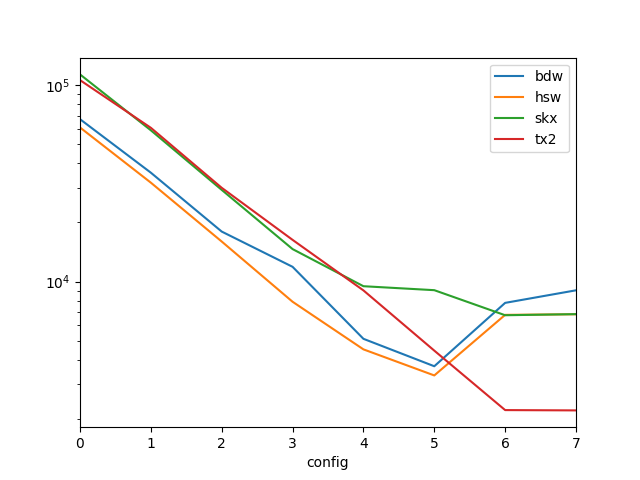
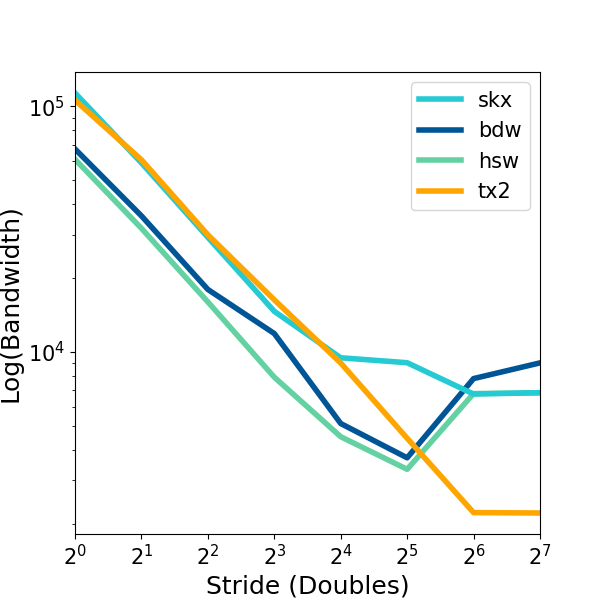
add more python scripts

diff --git a/src/python/prefetch_plot.py b/src/python/prefetch_plot.py
@@ -1,0 +1,185 @@
+import numpy as np
+import pandas as pd
+import matplotlib.pyplot as plt
+import matplotlib.ticker as ticker
+from pandas.compat import StringIO
+import sys
+import re
+import os
+import ntpath
+
+def file_to_df(filename):
+    with open(filename, 'r') as file:
+        contents = file.read()
+
+    # Read run configurations
+    start = contents.find("[", contents.find("Run Configurations"))
+    end = contents.find("config")
+    config = pd.DataFrame(eval(contents[start:end]))
+    #config['config'] = [i for i in range(config.shape[0])]
+
+    # Read data
+    data = pd.read_csv(StringIO(contents[end:]), delim_whitespace=True)
+
+    # Join tables and return 
+    return data.join(config, on='config', how='inner')
+
+def _is_nr(str):
+    return str.find("NR") != -1
+is_nr = np.vectorize(_is_nr)
+
+def _gap(arr):
+    if len(arr) < 2:
+        raise Exception('length 0 or 1 pattern')
+    return arr[1]
+gap = np.vectorize(_gap)
+
+def _pct(name):
+    return int(re.findall('\d+', name)[0])
+pct = np.vectorize(_pct)
+
+colors = {'on':'#26CAD3', 'off':'black'}
+
+def prefetch(name):
+    n = ntpath.basename(os.path.splitext(name)[0])
+    n = n[n.find("_")+1:n.rfind("_")]
+    if n.find("on") != -1:
+        return "on"
+    elif n.find("off") != -1:
+        return "off"
+    raise Exception("could not determine prefetch")
+
+def get_arch(name):
+    n = ntpath.basename(os.path.splitext(name)[0])
+    n = n[n.rfind("_")+1:]
+    return n
+
+
+if __name__ == "__main__":
+    if len(sys.argv) < 2:
+        print("Usage: python3 {} input.dat".format(sys.argv[0]))
+        exit(1)
+
+    #Read files
+    dfs = []
+    for f in sys.argv[1:]:
+        tmp = file_to_df(f)
+        tmp['arch'] = get_arch(f)
+        tmp['gap'] = gap(tmp['name'])
+        tmp['prefetch'] = prefetch(f)
+        tmp['norm_local'] = tmp['bw(MB/s)'] / max(tmp['bw(MB/s)'])
+        dfs.append(tmp)
+    df = pd.concat(dfs)
+
+    df['norm_global'] = df['bw(MB/s)'] / max(df['bw(MB/s)'])
+    df['bw(GB/s)'] = df['bw(MB/s)'] / 1000
+
+    all_arch = ""
+    for key, _ in df.groupby(['arch']):
+        all_arch = all_arch + key
+
+
+    SMALL_SIZE = 15
+    MEDIUM_SIZE = 18
+    BIGGER_SIZE = 20
+
+    plt.rc('font', size=SMALL_SIZE)          # controls default text sizes
+    plt.rc('axes', titlesize=SMALL_SIZE)     # fontsize of the axes title
+    plt.rc('axes', labelsize=MEDIUM_SIZE)    # fontsize of the x and y labels
+    plt.rc('xtick', labelsize=SMALL_SIZE)    # fontsize of the tick labels
+    plt.rc('ytick', labelsize=SMALL_SIZE)    # fontsize of the tick labels
+    plt.rc('legend', fontsize=SMALL_SIZE)    # legend fontsize
+    plt.rc('figure', titlesize=BIGGER_SIZE)  # fontsize of the figure title
+
+    #Plot against global max
+    print("Making plot 1")
+    fix, ax = plt.subplots()
+    #ax = plt.subplot(1, 2, 1) #plot 1
+
+    for key, grp in df.groupby(['prefetch']):
+        ax = grp.plot(ax=ax, kind='line', x='config', y='bw(GB/s)', label=key, color=colors[key])
+        print(key)
+
+    ax.set_xlabel("Stride (Doubles)")
+    ax.set_ylabel("Bandwidth (GB/s)")
+
+    ax.get_legend().remove()
+
+    ax2 = ax.twinx()
+    for key, grp in df.groupby(['prefetch']):
+        ax2 = grp.plot(ax=ax2, kind='line', x='config', y='norm_global', label=key, color=colors[key], linewidth=4)
+        print(key)
+
+
+    MODE="normal"
+    print(f"Mode is {MODE}")
+
+
+    ax2.set_ylabel("Normalized bandwidth")
+    ax2.get_legend().remove()
+
+    if MODE == "opt":
+        ax2.axhline(y=1, linestyle=":", color="black")
+        ax2.axhline(y=.5, linestyle=":", color="black", xmin=1/7)
+        ax2.axhline(y=.25, linestyle=":", color="black", xmin=2/7)
+        ax2.axhline(y=.125, linestyle=":", color="black", xmin=3/7)
+        ax2.axhline(y=.0625, linestyle=":", color="black", xmin=4/7)
+    else:
+        ax2.axhline(y=1, linestyle=":", color="black")
+        ax2.axhline(y=.5, linestyle=":", color="black")
+        ax2.axhline(y=.25, linestyle=":", color="black")
+        ax2.axhline(y=.125, linestyle=":", color="black")
+        ax2.axhline(y=.0625, linestyle=":", color="black")
+
+    plt.yticks([.0625, .125, .25, .5, 1], ['1/16', '1/8', '1/4', '1/2', '1'])
+    ax2.set_xticklabels([])
+   # ax.set_xticklabels([7, 7, 7, 7, 7, 7, 7, 7])
+    #def format_func(value, tick_number):
+    #    return r"$2^{}$".format(value)
+    #ax.xaxis.set_major_formatter(plt.FuncFormatter(format_func))
+
+    ax.xaxis.set_major_formatter(ticker.ScalarFormatter())
+    ax.set_xticklabels(["$2^{{{}}}$".format(x) for x in range(0,8)])
+    #ax.xaxis.set_major_formatter(ticker.ScalarFormatter())
+    #ax.ticklabel_format(axis='x', useMathText=True)
+    
+    ax.tick_params(axis=u'y', which=u'both',length=0)
+    ax2.tick_params(axis=u'both', which=u'both',length=0)
+
+    if MODE == "opt":
+        for a in [ax, ax2]:
+            a.spines["top"].set_visible(False)
+            a.spines["right"].set_visible(False)
+            a.spines["bottom"].set_visible(False)
+            a.spines["left"].set_visible(False)
+ 
+    plt.legend(loc='best', title='Prefetch')
+
+    # Change figure size
+    fig = plt.gcf()
+    fig.set_size_inches(6, 6)
+
+    outname = "prefetch_{}_{}.png".format(all_arch, MODE)
+    plt.savefig(outname, transparent=True, bbox_inches='tight')
+    ax.xaxis.set_major_formatter(ticker.ScalarFormatter())
+    ax.set_xticklabels(["$2^{{{}}}$".format(x) for x in range(0,8)])
+    print("Saved plot to {}".format(outname))
+
+    handles,labels = ax.get_legend_handles_labels()
+    handles = [handles[1], handles[0]]
+    labels = [labels[1], labels[0]]
+
+    plt.clf()
+    exit(0)
+
+    #Plot against a local max
+    fig, ax = plt.subplots()
+    for key, grp in df.groupby(['arch']):
+        ax = grp.plot(ax=ax, kind='line', x='gap', y='norm_local', label=key)
+        print(key)
+
+    plt.legend(loc='best', title='log2(gap)')
+
+    outname = "ustride_local.png"
+    plt.savefig(outname)
+    plt.clf()

diff --git a/src/python/ustride_plot.py b/src/python/ustride_plot.py
@@ -2,10 +2,13 @@ import numpy as np
 import pandas as pd
 import matplotlib.pyplot as plt
 from pandas.compat import StringIO
+import matplotlib.ticker as ticker
 import sys
 import re
 import os
 import ntpath
+
+colors={'tx2':'orange', 'skx':'#26CAD3', 'bdw':'#005596', 'hsw':'#64d1a2'}
 
 def file_to_df(filename):
     with open(filename, 'r') as file:
@@ -60,21 +63,47 @@ if __name__ == "__main__":
 
     df['norm_global'] = df['bw(MB/s)'] / max(df['bw(MB/s)'])
 
+    SMALL_SIZE = 15
+    MEDIUM_SIZE = 18
+    BIGGER_SIZE = 20
+
+    plt.rc('font', size=SMALL_SIZE)          # controls default text sizes
+    plt.rc('axes', titlesize=SMALL_SIZE)     # fontsize of the axes title
+    plt.rc('axes', labelsize=MEDIUM_SIZE)    # fontsize of the x and y labels
+    plt.rc('xtick', labelsize=SMALL_SIZE)    # fontsize of the tick labels
+    plt.rc('ytick', labelsize=SMALL_SIZE)    # fontsize of the tick labels
+    plt.rc('legend', fontsize=SMALL_SIZE)    # legend fontsize
+    plt.rc('figure', titlesize=BIGGER_SIZE)  # fontsize of the figure title
+
     #Plot against global max
     fig, ax = plt.subplots()
     for key, grp in df.groupby(['arch']):
-        ax = grp.plot(ax=ax, kind='line', x='config', y='bw(MB/s)', label=key)
+        ax = grp.plot(ax=ax, kind='line', x='config', y='bw(MB/s)', label=key, color=colors[key], linewidth=4)
         print(key)
 
     #ax.set_xscale("log")
     ax.set_yscale("log")
-    plt.legend(loc='best', title='')
+    ax.set_ylabel("Log(Bandwidth)")
+    ax.set_xlabel("Stride (Doubles)")
 
+    ax.xaxis.set_major_formatter(ticker.ScalarFormatter())
+    ax.set_xticklabels(["$2^{{{}}}$".format(x) for x in range(0,8)])
+
+    handles,labels = ax.get_legend_handles_labels()
+    handles = [handles[2], handles[0], handles[1], handles[3]]
+    labels = [labels[2], labels[0], labels[1], labels[3]]
+
+    plt.legend(handles, labels, loc='best', title='')
+    #plt.rcParams.update({'font.size': 28})
+
+    fig.set_size_inches(6,6)
     outname = "ustride_actual.png"
-    plt.savefig(outname)
+    plt.savefig(outname, transparent=True)
+    print(f"wrote to {outname}")
     plt.clf()
     exit(0)
 
+#########################
     #Plot against a local max
     fig, ax = plt.subplots()
     for key, grp in df.groupby(['arch']):
@@ -83,6 +112,7 @@ if __name__ == "__main__":
 
     plt.legend(loc='best', title='log2(gap)')
 
-    outname = "ustride_local.png"
+    outname = "ustride_tmp.png"
     plt.savefig(outname)
+    print(f"wrote to {outname}")
     plt.clf()
